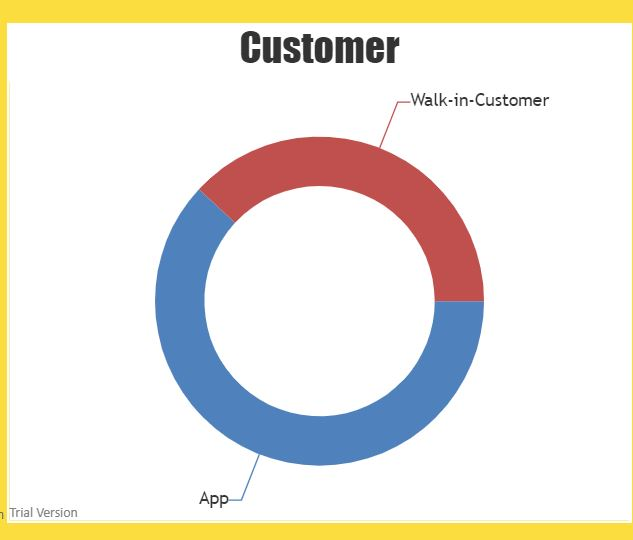
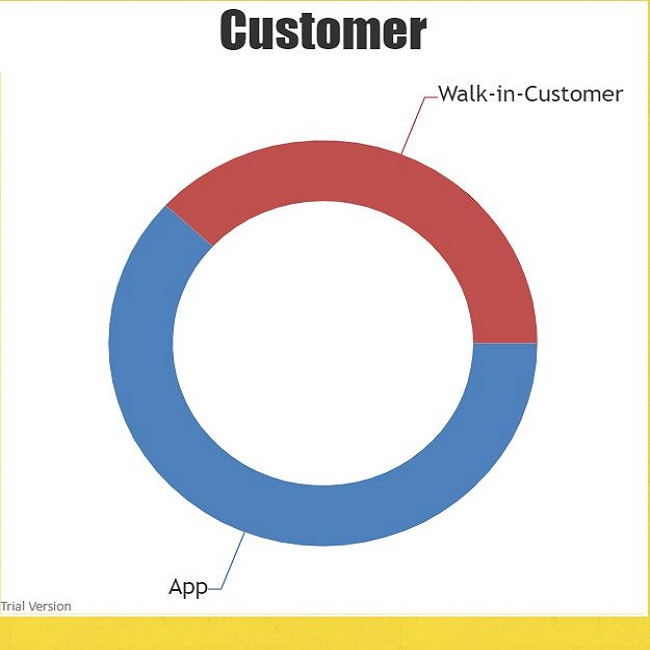
analytics images change

diff --git a/public/css/restaurantmanager/analytics/analyticsnew.css b/public/css/restaurantmanager/analytics/analyticsnew.css
@@ -1,58 +1,60 @@
-.box{
-    display: flex;
-    flex-flow: row wrap;
-    align-items: center;
-  /*  margin-left: 300px;*/
+@import url('https://fonts.googleapis.com/css2?family=Montserrat:wght@400;500;600;700;800&display=swap');
+
+:root{
+    --received-backgroundcolor:#f1f1f1;
+    --delivered-backgroundcolor:#cbecbc;
+    --customer-backgroundcolor:#c9e3ea;
+    --netearning-backgroundcolor:#e8cdcd;
+}
+
+body{
+    font-family:'Montserrat', sans-serif;
+}
+
+.column {
+    float: left;
+    width:25%;
+    padding: 0 1%;
+}
+.row {
+    /* margin: 0 -5px; */
+    width:100%;
+    display: block;
+}
+.row:after {
+    content: "";
+    display: table;
+    clear: both;
 }
 
 .order-received-box {
-    font-size: 14px;
-    border: 1px solid #ccc;
-    border-radius: 10px;
-    box-shadow: 2px 2px 6px 0px rgba(0, 0, 0, 0.3);
-    width: 15%;
-    height: auto;
-    min-height: 150px;
-    padding: 20px 20px 20px;
-    background-color: #ccc;
+        box-shadow: 0px 4px 8px 0 rgba(0, 0, 0, 0.2);
+        padding: 16px;
+        text-align: center;
+        background-color: var(--received-backgroundcolor);
 
 }
 
 .order-delivered-box {
-    font-size: 14px;
-    border: 1px solid #ccc;
-    border-radius: 10px;
-    box-shadow: 2px 2px 6px 0px rgba(0, 0, 0, 0.3);
-    width: 15%;
-    height: auto;
-    min-height: 150px;
-    padding: 20px 20px 20px;
-    background-color: rgb(168, 231, 117);
+        box-shadow: 0px 4px 8px 0 rgba(0, 0, 0, 0.2);
+        padding: 16px;
+        text-align: center;
+        background-color: var(--delivered-backgroundcolor);
     
 }
 
 .new-customer-box {
-    font-size: 14px;
-    border: 1px solid #ccc;
-    border-radius: 10px;
-    box-shadow: 2px 2px 6px 0px rgba(0, 0, 0, 0.3);
-    width: 15%;
-    height: auto;
-    min-height: 150px;
-    padding: 20px 20px 20px;
-    background-color: rgb(233, 158, 232);
+        box-shadow: 0px 4px 8px 0 rgba(0, 0, 0, 0.2);
+        padding: 16px;
+        text-align: center;
+        background-color: var( --customer-backgroundcolor);
 }
 
 .net-earning-box {
-    font-size: 14px;
-    border: 1px solid #ccc;
-    border-radius: 10px;
-    box-shadow: 2px 2px 6px 0px rgba(0, 0, 0, 0.3);
-    width:15%;
-    height: auto;
-    min-height: 150px;
-    padding: 20px 20px 20px;
-    background-color: rgb(140, 240, 228);
+    box-shadow: 0px 4px 8px 0 rgba(0, 0, 0, 0.2);
+    padding: 16px;
+    text-align: center;
+    background-color: var( --netearning-backgroundcolor);
  
 }
 

diff --git a/application/views/restaurantmanager/analytics/analyticsnew.php b/application/views/restaurantmanager/analytics/analyticsnew.php
@@ -25,42 +25,51 @@
       
 
         <div class="content">
-        <div class="box">
+        <div class="row">
+     <!--   <div class="box">-->
+            <div class="column">
             <div class="order-received-box">
             <h2>Orders received:</h2><br>
             <h2>250</h2>
             </div>
+            </div>
 
+            <div class="column">
             <div class="order-delivered-box">
             <h2>Orders deilivered:</h2><br>
             <h2>100</h2>
             </div>
+            </div>
 
+            <div class="column">
             <div class="new-customer-box">
             <h2>New Customer:</h2><br>
             <h2>23</h2>
             </div>
+            </div>
 
+            <div class="column">
             <div class="net-earning-box">
             <h2>Net earning:</h2><br>
             <h2>Rs.15,000</h2>
             </div>
+          </div> 
+            
         </div>
 <br><br><br>
         <div class="column-line">
             <div class="column-graph">
             <?php //include "column.php"?>
             <img src="<?php echo BASE_URL?>/public/images/analytics-chart/column.jpg">
-           
-            </div>
-
+           </div>
+          
             <div class="line-graph">
             <?php //include "line.php"?>
             <img src="<?php echo BASE_URL?>/public/images/analytics-chart/line.jpg">
             </div>
-            </div>
-
-            <br><br><br>
+        </div>
+            
+           
             <div class="cus-pay">
             <div class="customer-pie-chart">
             <?php //include "cuspie.php"?>

diff --git a/application/views/restaurantmanager/analytics/line.php b/application/views/restaurantmanager/analytics/line.php
@@ -1,4 +1,4 @@
-<!DOCTYPE HTML>
+<!--<!DOCTYPE HTML>
 <html>
 <head>
 <link rel="stylesheet" href="https://cdnjs.cloudflare.com/ajax/libs/font-awesome/4.7.0/css/font-awesome.min.css">
@@ -43,6 +43,48 @@ chart2.render();
 <div id="chartContainer2" style="height: 400px; width:100%;"></div>
 <script src="https://canvasjs.com/assets/script/canvasjs.min.js"></script>
 
+</body>
+</html>-->
+
+<!DOCTYPE HTML>
+<html>
+<head>
+  <script type="text/javascript">
+  window.onload = function () {
+    var chart2 = new CanvasJS.Chart("chartContainer2",
+    {
+
+      title:{
+      text: "Earnings"
+      },
+       data: [
+      {
+        type: "line",
+
+        dataPoints: [
+        { x: new Date(2020, 01, 1), y: 17.36},
+        { x: new Date(2020, 02, 1), y: 12.40},
+        { x: new Date(2020, 03, 1), y: 12.54},
+        { x: new Date(2020, 04, 1), y: 13.59},
+        { x: new Date(2020, 05, 1), y: 9.92 },
+        { x: new Date(2020, 06, 1), y: 17.36},
+        { x: new Date(2020, 07, 1), y:16.84 },
+        { x: new Date(2020, 08, 1), y:18.24 },
+        { x: new Date(2020, 09, 1), y:10.20 },
+        { x: new Date(2020, 10, 1), y:15.56 }
+       
+        ]
+      }
+      ]
+    });
+
+    chart2.render();
+  }
+  </script>
+ <script type="text/javascript" src="https://canvasjs.com/assets/script/canvasjs.min.js"></script></head>
+<body>
+  <div id="chartContainer2" style="height: 500px; width: 100%;">
+  </div>
 </body>
 </html>
 

diff --git a/application/controllers/Rmuser_controller.php b/application/controllers/Rmuser_controller.php
@@ -90,7 +90,7 @@ class Rmuser_controller extends JB_Controller{
     public function logout(){
         $this->destroy_session();
         $this->view('login');
-    }*/
+    }
     public function users(){
         $this->view('restaurantmanager/users/RM');
     }
@@ -100,7 +100,7 @@ class Rmuser_controller extends JB_Controller{
     }
 
     public function savedata(){
-     /*   $this->view('restaurantmanager/users/create');*/
+      $this->view('restaurantmanager/users/create');
      
         $this->validation('User_name', 'Name' , 'required|not_int|max_len|50');
         $this->validation('Email_address','Email address', 'unique|user|required');
@@ -129,7 +129,7 @@ class Rmuser_controller extends JB_Controller{
              // 'User_role'=>$User_role,
                 'User_status'=> "active",
                 'Registered_date' => date("Y-m-d"),
-           /*  'Registered_date' => $Registered_date,*/
+             'Registered_date' => $Registered_date,
                 'Token' => $Token
             ];
            
@@ -185,7 +185,7 @@ public function user_update_values(){
         $this->view('customer/cus_profile_update');
     }else if($result['status'] === "success"){
         $this->view('customer/cus_profile_update',$result['data']);
-    }*/
+    }
 
 }
 

diff --git a/application/views/restaurantmanager/analytics/column.php b/application/views/restaurantmanager/analytics/column.php
@@ -14,6 +14,7 @@ var chart1 = new CanvasJS.Chart("chartContainer1", {
 	},
 	data: [{
 		type: "column",
+		color:"#696767",
 		startAngle: 25,
 		toolTipContent: "<b>{label}</b>: {y}%",
 		showInLegend: "true",
@@ -37,7 +38,7 @@ chart1.render();
 </script>
 </head>
 <body>
-<div id="chartContainer1" style="height: 400px; width:100%;"></div>
+<div id="chartContainer1" style="height: 500px; width:100%;"></div>
 <script src="https://canvasjs.com/assets/script/canvasjs.min.js"></script>
 
 </body>

diff --git a/application/views/restaurantmanager/edit.php b/application/views/restaurantmanager/edit.php
@@ -22,7 +22,7 @@
 
              <div class="admin-content" style="background: #FBDD3F url('<?php echo BASE_URL?>/public/images/texture.png') repeat;">
               <!--  <a href="RMnewsfeed.php" class="button">News Feed</a>-->
-                <?php echo anchor("rm_controller/index", "News Feed",['class'=>"button"]) ?>
+                <?php echo anchor("rm_controller/newsfeed", "News Feed",['class'=>"button"]) ?>
             
 
              <div class="content">

diff --git a/application/views/restaurantmanager/create.php b/application/views/restaurantmanager/create.php
@@ -21,7 +21,7 @@
       
              <div class="admin-content" style="background: #FBDD3F url('<?php echo BASE_URL?>/public/images/texture.png') repeat;">
              <!--   <a href="RMnewsfeed.php" class="button">News Feed</a>-->
-                <?php echo anchor("rm_controller/index", "News Feed",['class'=>"button"]) ?>
+                <?php echo anchor("rm_controller/newsfeed", "News Feed",['class'=>"button"]) ?>
 
 
              <div class="content">

diff --git a/application/views/restaurantmanager/analytics/cuspie.php b/application/views/restaurantmanager/analytics/cuspie.php
@@ -24,7 +24,7 @@
   </script>
   <script type="text/javascript" src="https://canvasjs.com/assets/script/canvasjs.min.js"></script></head>
   <body>
-    <div id="chartContainer3" style="height: 400px; width: 100%;">
+    <div id="chartContainer3" style="height: 500px; width: 100%;">
     </div>
   </body>
  </html>

diff --git a/application/views/restaurantmanager/analytics/paymentpie.php b/application/views/restaurantmanager/analytics/paymentpie.php
@@ -24,7 +24,7 @@
   </script>
   <script type="text/javascript" src="https://canvasjs.com/assets/script/canvasjs.min.js"></script></head>
   <body>
-    <div id="chartContainer4" style="height: 400px; width: 100%;">
+    <div id="chartContainer4" style="height: 500px; width: 100%;">
     </div>
   </body>
  </html>
